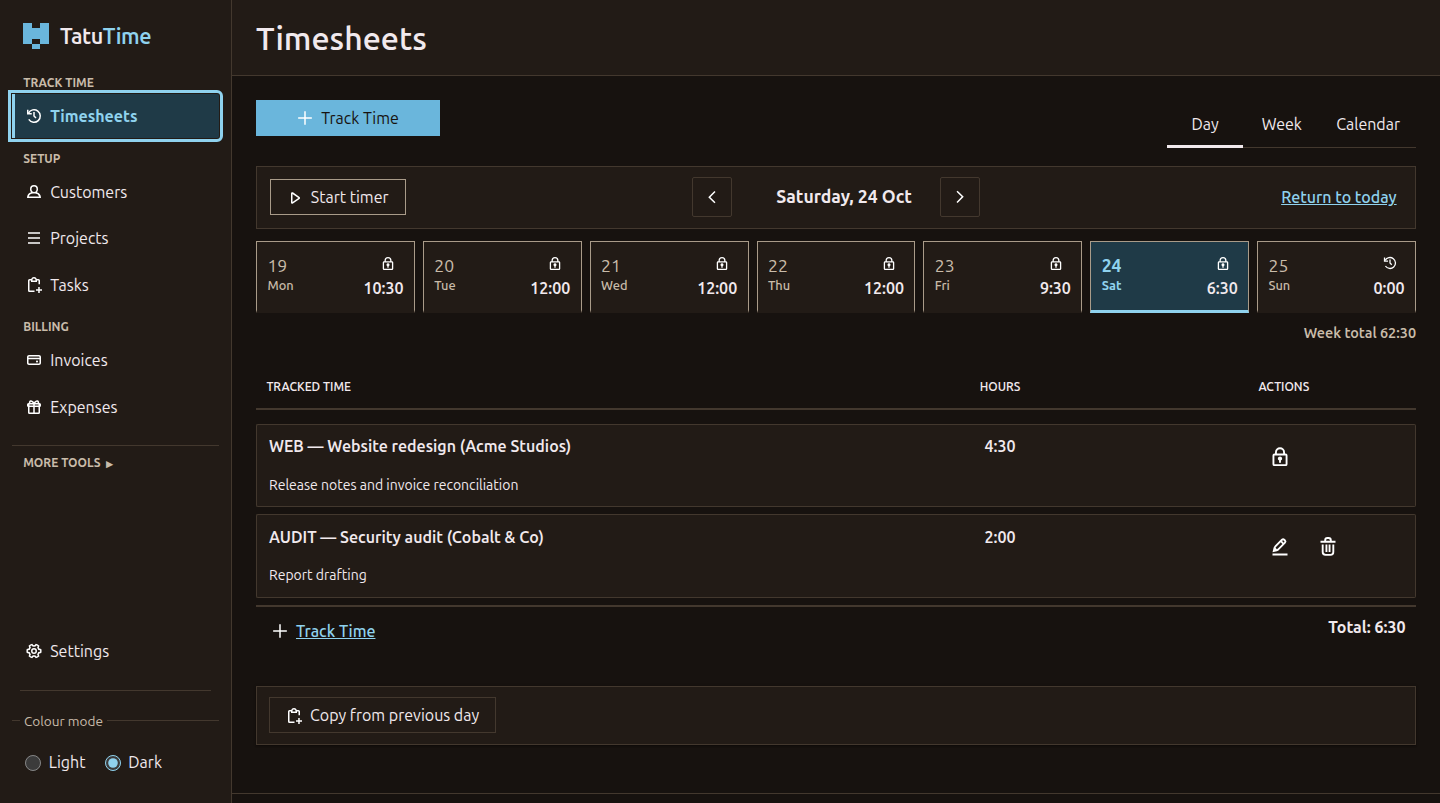
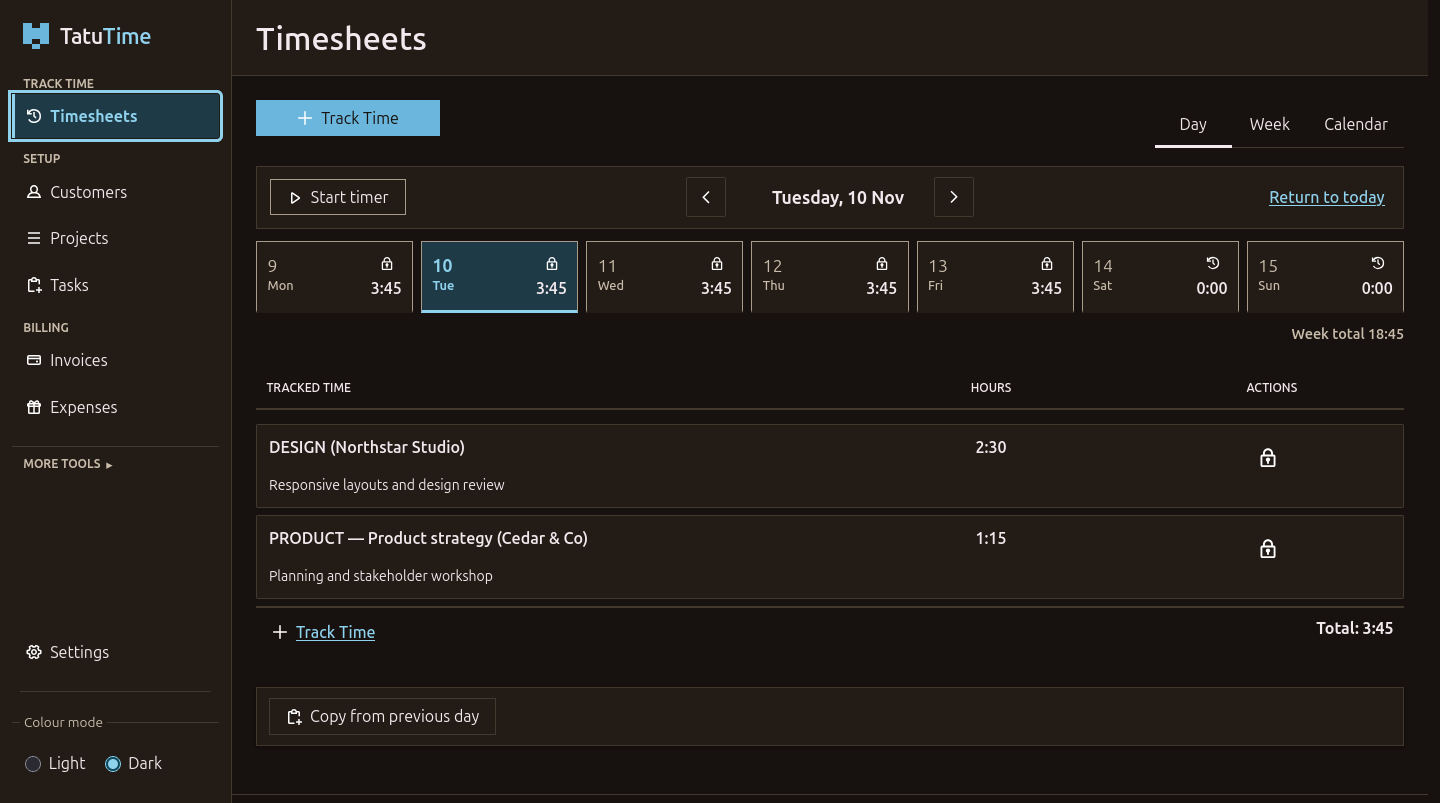
docs: refresh product screenshots for mobile workflows

diff --git a/tools/capture-product.py b/tools/capture-product.py
@@ -1,0 +1,156 @@
+import argparse
+import base64
+import datetime
+import importlib.util
+import json
+import os
+from pathlib import Path
+import struct
+from types import SimpleNamespace
+
+
+def main():
+    parser = argparse.ArgumentParser()
+    parser.add_argument("--product", type=Path, required=True)
+    args = parser.parse_args()
+    product = args.product.resolve()
+    spec = importlib.util.spec_from_file_location(
+        "product_browser", product / "gui-test" / "browser-smoke.py"
+    )
+    browser = importlib.util.module_from_spec(spec)
+    spec.loader.exec_module(browser)
+    browser.ADMIN_NAME = "Alex Morgan"
+    browser.ADMIN_EMAIL = "alex@example.test"
+    gate = browser.Gate(SimpleNamespace(
+        firefox=os.environ.get("TATU_FIREFOX", "/usr/bin/firefox-esr"),
+        binary=str(product / "target" / "release" / "tatu-time"),
+        web_dir="", dev_web_dir=False, keep=False, verbose=False,
+    ))
+    output = Path(__file__).resolve().parents[1] / "site" / "assets" / "img"
+
+    def request(method, path, payload, expected=201):
+        status, _, raw = gate.http(
+            method, path, payload, cookie=gate.cookie,
+            extra_headers={"x-csrf-protection": "1"},
+        )
+        if status != expected:
+            raise RuntimeError(f"Demo fixture rejected: {path}: HTTP {status}")
+        return json.loads(raw)
+
+    try:
+        gate.start_server()
+        gate.base = f"http://127.0.0.1:{gate.port}"
+        gate.bootstrap()
+        _, headers, _ = gate.http("POST", "/api/auth/login", {
+            "email": browser.ADMIN_EMAIL, "password": browser.ADMIN_PASSWORD,
+        })
+        gate.cookie = headers["set-cookie"].split(";")[0]
+        today = datetime.date.today()
+        monday = today - datetime.timedelta(days=today.weekday())
+        customers = [
+            ("Northstar Studio", "DESIGN", "Website redesign", 8500),
+            ("Cedar & Co", "PRODUCT", "Product strategy", 10500),
+        ]
+        for index, (name, code, project, rate) in enumerate(customers):
+            customer = request("POST", "/api/customers", {
+                "name": name, "currency": "EUR", "default_rate_minor": rate,
+            })
+            cid = customer["id"]
+            request("POST", f"/api/customers/{cid}/projects", {
+                "code": code, "name": project, "currency": "EUR", "rate_minor": rate,
+            })
+            for offset in range(5):
+                day = monday + datetime.timedelta(days=offset)
+                request("POST", "/api/entries", {
+                    "date": day.isoformat(), "customer_id": cid, "project_code": code,
+                    "hours": 2.5 if index == 0 else 1.25, "billable": True,
+                    "note": "Responsive layouts and design review" if index == 0 else "Planning and stakeholder workshop",
+                })
+            request("POST", "/api/expenses", {
+                "date": today.isoformat(), "customer_id": cid,
+                "amount_minor": 4250 if index == 0 else 1890,
+                "currency": "EUR", "billable": True,
+                "note": "Train to client workshop" if index == 0 else "Project materials",
+            })
+            invoice = request("POST", "/api/invoices", {
+                "customer_id": cid, "from": monday.isoformat(),
+                "to": (monday + datetime.timedelta(days=6)).isoformat(),
+            })
+            request("POST", f"/api/invoices/{invoice['id']}/issue", {}, expected=200)
+        gate.start_browser()
+        if not gate.boot():
+            raise RuntimeError("The product did not boot")
+        gate.sign_in()
+        gate.marionette.call("Marionette:SetContext", {"value": "chrome"})
+        try:
+            gate.marionette.script(
+                "document.documentElement.style.setProperty('min-width', '0px', 'important'); return true;"
+            )
+        finally:
+            gate.marionette.call("Marionette:SetContext", {"value": "content"})
+        captures = [
+            ("shot-day.png", "/timesheets/day", "light", 1440, 803),
+            ("shot-day-dark.png", "/timesheets/day", "dark", 1440, 803),
+            ("shot-week.png", "/timesheets/week", "light", 1440, 803),
+            ("shot-expenses.png", "/expenses", "light", 1440, 803),
+            ("shot-invoices.png", "/invoices", "light", 1440, 803),
+            ("shot-day-mobile.png", "/timesheets/day", "light", 500, 758),
+        ]
+        for filename, route, theme, width, height in captures:
+            gate.navigate(route)
+            gate.wait_script("document.documentElement.dataset.booted === 'ready'", route)
+            gate.marionette.script(
+                f"document.querySelector('input[name=colour-mode][value={theme}]').click();"
+                "const dismiss = document.getElementById('aw-prompt-dismiss');"
+                "if (dismiss && dismiss.checkVisibility()) dismiss.click(); return true;"
+            )
+            bounds = gate.marionette.script(
+                "return {width: outerWidth - innerWidth, height: outerHeight - innerHeight};"
+            )
+            gate.marionette.call("WebDriver:SetWindowRect", {
+                "width": width + bounds["width"], "height": height + bounds["height"],
+            })
+            gate.marionette.script(
+                "document.documentElement.dataset.captureFrame = '';"
+                "requestAnimationFrame(() => requestAnimationFrame(() => {"
+                "document.documentElement.dataset.captureFrame = 'ready'; })); return true;"
+            )
+            gate.wait_script(
+                "document.documentElement.dataset.captureFrame === 'ready'",
+                "resized browser frame",
+            )
+            actual = gate.marionette.script(
+                "return {width: innerWidth, height: innerHeight, outerWidth, outerHeight};"
+            )
+            gate.marionette.call("WebDriver:SetWindowRect", {
+                "width": actual["outerWidth"] + width - actual["width"],
+                "height": actual["outerHeight"] + height - actual["height"],
+            })
+            print(f"Viewport before correction for {filename}: {actual}", flush=True)
+            gate.wait_script(
+                f"innerWidth === {width} && innerHeight === {height}"
+                " && document.fonts.status === 'loaded'", "capture viewport and fonts",
+            )
+            gate.wait_script(
+                "document.documentElement.scrollWidth <= document.documentElement.clientWidth + 1",
+                "no page overflow",
+            )
+            gate.wait_script(
+                "document.querySelector('#day-table tbody tr, #week-table tbody tr,"
+                " #expense-table tbody tr, #invoice-table tbody tr') !== null",
+                "rendered demo rows",
+            )
+            data = gate.marionette.call("WebDriver:TakeScreenshot", {"full": False})
+            if isinstance(data, dict):
+                data = data["value"]
+            image = base64.b64decode(data)
+            if struct.unpack(">II", image[16:24]) != (width, height):
+                raise RuntimeError(f"Unexpected screenshot dimensions: {filename}")
+            (output / filename).write_bytes(image)
+            print(f"Captured {filename}: {width}x{height}", flush=True)
+    finally:
+        gate.cleanup()
+
+
+if __name__ == "__main__":
+    main()

diff --git a/tools/README.md b/tools/README.md
@@ -17,3 +17,13 @@ with the absolute `https://tatutime.com/` origin.
 
 Screenshots of the product itself (`site/assets/img/shot-*.png`) come from a real TatuTime
 instance with a throwaway data directory and fictional demo data. Capture desktop views at 1440×803 and the mobile hero at a narrow portrait width; keep the browser chrome out of the crop.
+After building the product release binary, regenerate the gallery with:
+
+```sh
+python3 tools/capture-product.py --product ../TatuTime
+```
+
+The product's development container supplies Firefox ESR and Python. Mount both
+repositories when running the script there. The capture uses an isolated server,
+fictional customers and a temporary browser profile; it does not read local
+runtime data. Desktop images are 1440x803 and the mobile image is 500x758.
